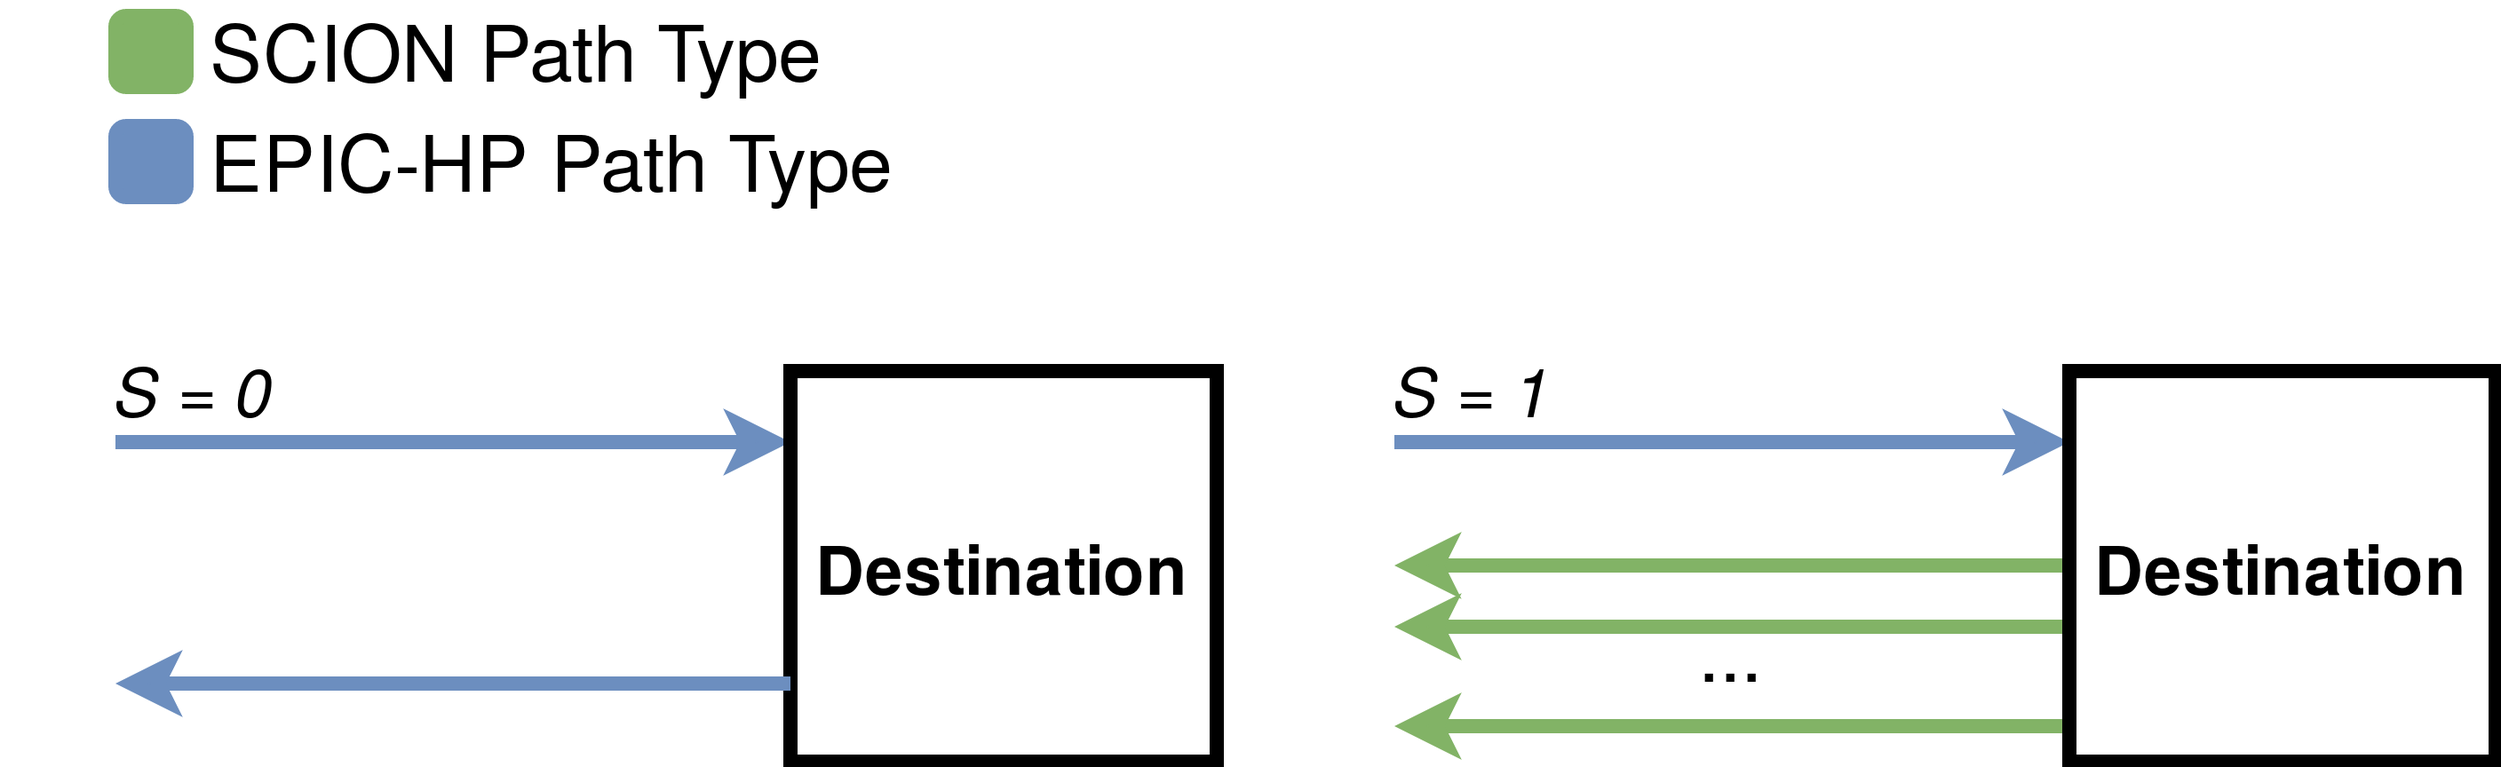
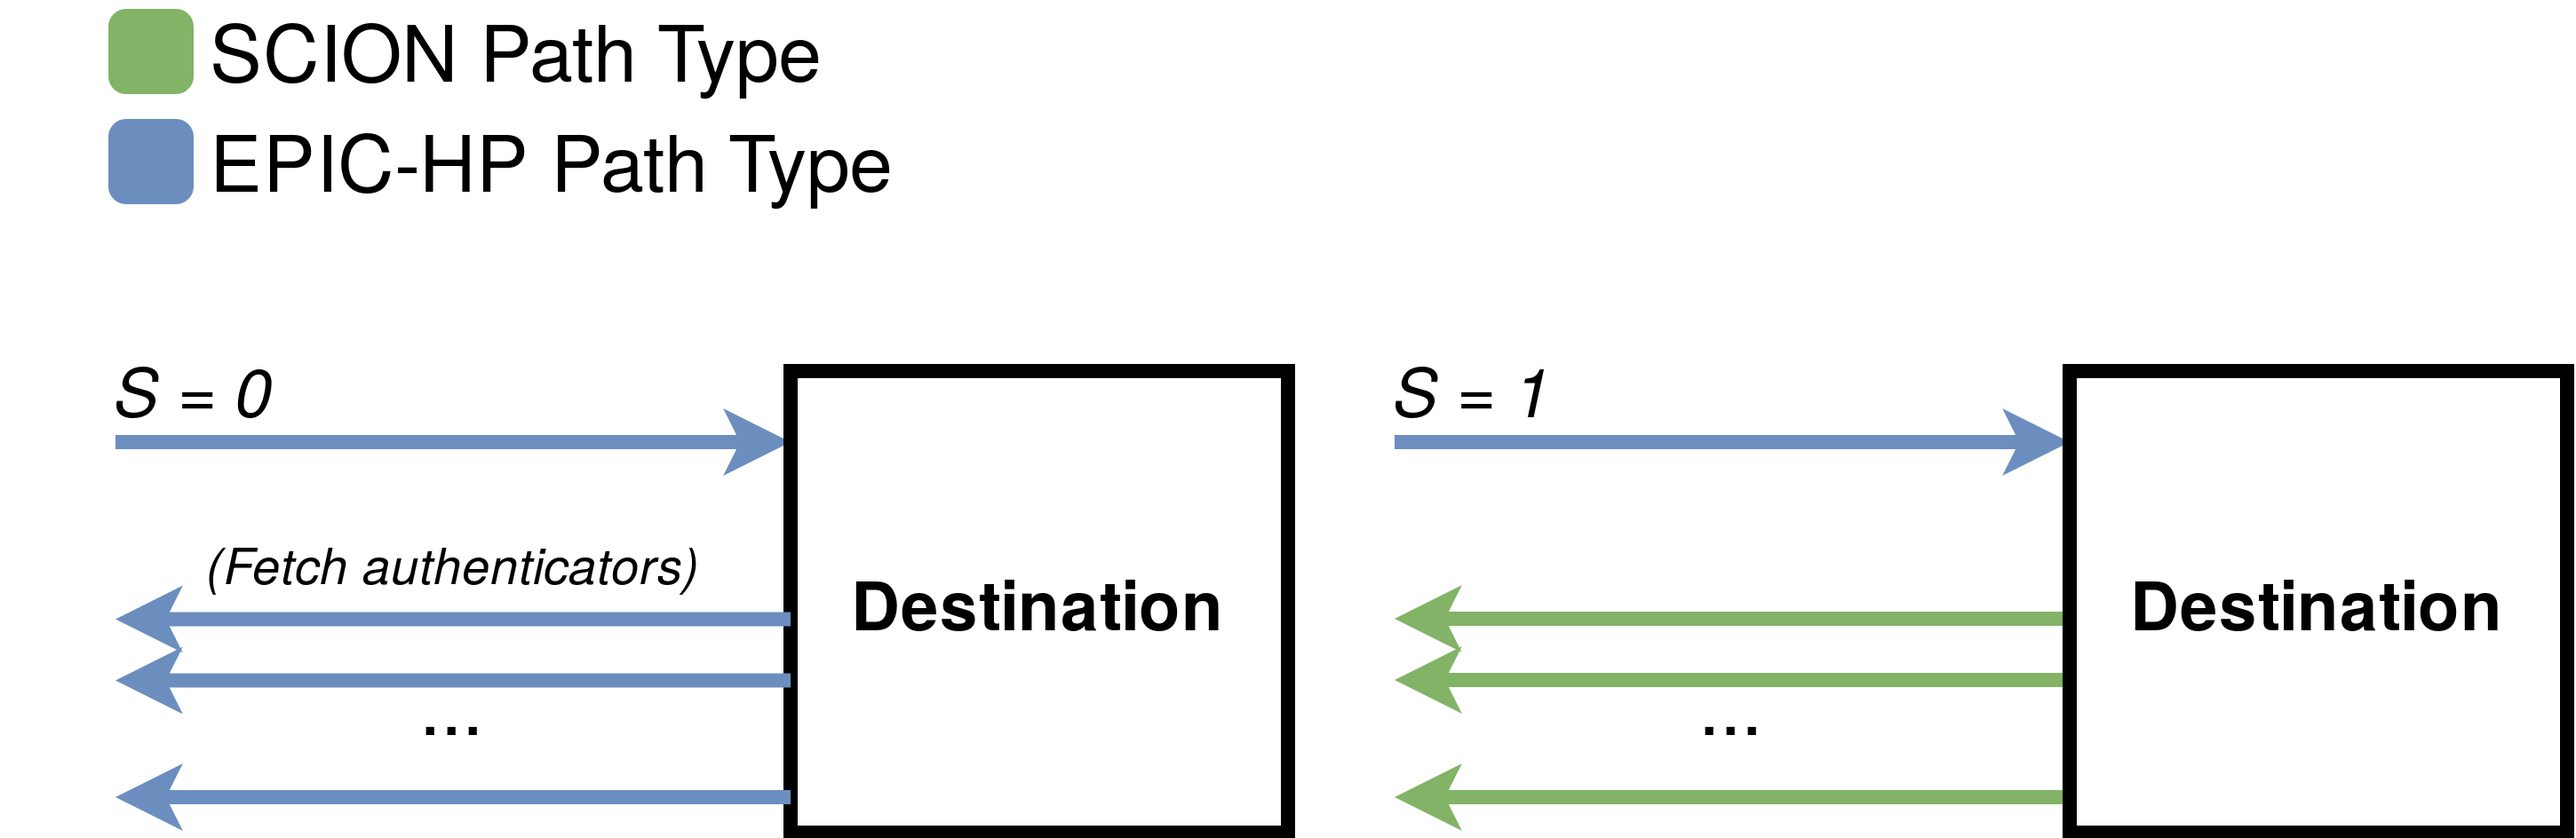
Address more feedback

diff --git a/doc/EPIC.md b/doc/EPIC.md
@@ -10,21 +10,20 @@ The ASes only advertise paths that serve their economic interests, and path auth
 In SCION, this is implemented by having the ASes create authenticators during beaconing, which end hosts then have to include in the MAC field of their packets. Those MAC fields prove to the ASes, that the packets are allowed to traverse them.
 The MAC fields are static, meaning that they are the same for every packet on that path.
 
-However, this implementation of path authorization is insufficient against more sophisticated adversaries that are able to derive MAC fields, for example by brute-forcing them or by observing them in the data plane packets. Because the MACs are static, once derived MACs for one packet can be reused by the adversary to send arbitrarily many other packets (until the authenticators expire).
+However, this implementation of path authorization is insufficient against adversaries that are able to observe the MAC fields in data plane packets of other hosts. Because the MACs are static, once observed MACs for some path can be reused by the adversary to send arbitrarily many other packets (until the authenticators expire).
 
 The EPIC (Every Packet Is Checked) protocol [[1]](#1) solves this problem by introducing per-packet MACs.
-Even if an adversary is able to brute-force the MACs for one packet, the MACs cannot be reused to send any other traffic.
-Observing MACs from packets in the data plane does also not help an attacker, as he still needs to derive new MACs for every packet he wants to send over an unauthorized path.
-This is especially important for hidden paths [[2]](#2). Hidden paths are paths which are not publicly announced, but only communicated to a group of authorized sources. If one of those sources sends traffic on the hidden path using SCION path type packets, an on-path adversary can observe the MACs and reuse them to send traffic on the hidden path himself. This allows the adversary to reach services that were meant to be hidden, or to launch DoS attacks directed towards them.
+Even if an adversary is able to discover the MACs for one packet, he cannot reuse the MACs to send any other traffic.
+The improved path authorization provided by EPIC is especially important for hidden paths [[2]](#2). Hidden paths are paths which are not publicly announced, but only communicated to a group of authorized sources. If one of those sources sends traffic on the hidden path using SCION path type packets, an on-path adversary can observe the MACs and reuse them to send traffic on the hidden path himself. This allows the adversary to reach services that were meant to be hidden, or to launch DoS attacks directed towards them.
 EPIC precludes such attacks, making hidden paths more secure.
 
 ## EPIC-HP Overview
-EPIC-HP (EPIC for Hidden Paths) provides the improved security properties of EPIC on the very last inter-AS link of a path. It is meant as a lightweight EPIC version and is specifically designed to better protect hidden paths.
+EPIC-HP (EPIC for Hidden Paths) provides the improved security properties of EPIC on the very last inter-AS link of a path. It is meant as a lightweight EPIC version and is specifically designed to better protect hidden paths. We will refer to ASes and hosts protected by a hidden path as "being behind a hidden link".
 
 ### Assumptions
 EPIC-HP makes the following assumptions necessary to provide a meaningful level of security:
 - The AS protected by the hidden path is the last AS.
-By "last AS" we mean that the beacon which defined the hidden path ends in the local interface of this AS. Or stated differently: the AS behind the hidden path does not forward the beacon defining the hidden path to further downstream/peering ASes. 
+By "last AS" we mean that the beacon which defined the hidden path ends in the local interface of this AS. Or stated differently: the AS reachable through the hidden path does not forward the beacon defining the hidden path to further downstream/peering ASes. 
 - On the interface-pairs (ingress/egress pair) that affect the hidden path, the last two ASes employ one of two different strategies in the data plane:
   1. Only allow EPIC-HP path type traffic. See use case "Highly Secure Hidden Paths" [here](#HighlySecureHiddenPaths). The path type filtering is further explained [here](#PathTypeFiltering).
   2. Prioritize EPIC-HP path type traffic. See use case "DOS-Secure Hidden Paths" [here](#DOSSecureHiddenPaths).
@@ -46,9 +45,9 @@ Of course the ASes can always decide to be more restrictive, for example AS 6 co
 ### SCION Path Type Responses
 EPIC-HP path type packets contain the full SCION path type header plus a timestamp and verification fields for the penultimate and last ASes on the path. 
 
-The included SCION path type header allows the destination behind a hidden path to directly respond with SCION path type packets. The destination only has to extract the SCION path type header from the EPIC-HP header and reverse the path. For this, there is a "SCION-Response (S)" flag in the EPIC-HP path type header, which can be set by the source. Setting this flag (S = 1) makes sense if the source AS is not behind a hidden path, or if it is behind a hidden path but also allows SCION path type traffic (but with lower priority than EPIC-HP).
+The included SCION path type header allows the destination behind a hidden link to directly respond with SCION path type packets. The destination only has to extract the SCION path type header from the EPIC-HP header and reverse the path. For this, there is a "SCION-Response (S)" flag in the EPIC-HP path type header, which can be set by the source. Setting this flag (S = 1) makes sense if the source AS is not behind a hidden link, or if it is behind a hidden link but also allows SCION path type traffic (but with lower priority than EPIC-HP).
 
-If the SCION-Response flag is not set (S = 0), this means that the source is itself behind a hidden path. The destination will therefore answer with a new EPIC-HP packet, provided it has the necessary authenticators for the hidden path towards the source.
+If the SCION-Response flag is not set (S = 0), this means that the source is itself behind a hidden link. The destination will therefore answer with a new EPIC-HP packet, provided it has the necessary authenticators for the hidden path towards the source.
 
 <p align="center">
   <img src="fig/EPIC/SCION-reponse-flag.png" width="600">
@@ -65,7 +64,7 @@ The last two ASes need to validate the fields accordingly.
 A more concise description can be found in the EPIC-HP path type specification.
 
 ## <a id="PathTypeFiltering"></a> Path Type Filtering
-Network operators should be able to clearly define which kind of traffic (SCION, EPIC-HP, EPIC-SAPV, and other protocols) they want to allow. 
+Network operators should be able to clearly define which kind of traffic (SCION, EPIC-HP, COLIBRI, and other protocols) they want to allow. 
 Therefore, for each AS and every interface pair, an AS can be configured with 1-bit flags to allow only certain types of traffic: 
 
 <p align=center>AllowedTraffic(If<sub>1</sub>, If<sub>2</sub>) = (flag<sub>SCION</sub>, flag<sub>EPIC-HP</sub>, flag<sub>COLIBRI</sub>, ...)</p>
@@ -86,13 +85,14 @@ There are two main applications for EPIC-HP:
 The last and penultimate ASes on the hidden path only allow EPIC-HP traffic on the interface pairs that affect the hidden path. 
 With such a setup it is not possible for unauthorized sources to reach the services in the last AS. Therefore, EPIC-HP effectively prevents adversaries from running attacks like denial of service, or attack preparations like scanning the services for vulnerabilities. 
 
-If some host H1 inside an AS with such a setup wants to communicate with a host inside another AS that is also behind a hidden path, both hosts need to have valid authenticators to send traffic over the corresponding hidden paths. The hosts can exclusively communicate using EPIC-HP, and H1 needs to set the SCION-Response flag to zero.
+If some host H1 inside an AS with such a setup wants to communicate with a host inside another AS that is also behind a hidden link, both hosts need to have valid authenticators to send traffic over the corresponding hidden paths. The hosts can exclusively communicate using EPIC-HP, and H1 needs to set the SCION-Response flag to zero.
 
-Note that hosts behind a hidden path can send SCION path type packets towards hosts in other ASes, but that those hosts can not send a response back if they do not have the necessary authenticators.
+Note that hosts behind a hidden link can send SCION path type packets towards hosts in other ASes, but that those hosts can not send a response back if they do not have the necessary authenticators.
 
 ### <a id="DOSSecureHiddenPaths"></a> DoS-Secure Hidden Paths
-The last and penultimate ASes on the hidden path allow EPIC-HP and other path types simultaneously, but prioritize traffic using the EPIC-HP path type over the SCION path type.
-This means that DOS attacks are not possible, because an adversary is limited to sending low-priority SCION path type packets. However, an adversary can still reach the services behind the hidden path.
+The last and penultimate ASes on the hidden path allow EPIC-HP and other path types simultaneously, but prioritize traffic using the EPIC-HP path type over the SCION path type. 
+This has the advantage that the link can still be used as a normal SCION path type access link. 
+DOS attacks are not possible in this case, because an adversary is limited to sending low-priority SCION path type packets. However, an adversary can still reach the services behind the hidden link.
 
 In this scenario, the hosts protected by the hidden path can set the SCION-Response flag to one, so the destination will be able to answer with (arbitrariliy many) SCION path type packets.
 

diff --git a/doc/protocols/scion-header.rst b/doc/protocols/scion-header.rst
@@ -527,15 +527,16 @@ path type response packet only contains strictly less information
 than the previously received EPIC-HP packet, as the response packet 
 does not include the PacketTimestamp, the PHVF, and the LHVF.
 
-If the sender is behind a hidden path itself, then it is likely that 
-its AS will not accept SCION path type packets, which means that the 
-destination can only respond using EPIC-HP traffic. Therefore the 
-sender can explicitly specify in the EPIC-HP packet whether it wants 
-the receiver to respond with SCION path type response packets, or 
-with EPIC-HP packets (assuming the receiver has the necessary 
-authenticators to send on the hidden path to the sender).
+If the sender is reachable through a hidden path itself, then it is 
+likely that its AS will not accept SCION path type packets, which 
+means that the destination can only respond using EPIC-HP traffic. 
+Therefore the sender can explicitly specify in the EPIC-HP packet 
+whether it wants the receiver to respond with SCION path type 
+response packets, or with EPIC-HP packets (assuming the receiver has 
+the necessary authenticators to send on the hidden path to the 
+sender).
 
-To protect the services behind the hidden path (only authorized 
+To protect the services behind the hidden link (only authorized 
 entities should be able to access the services, downgrade to the 
 SCION path type should be prevented, etc.), ASes need to be able to 
 configure the border routers such that only certain Path Types are 
@@ -658,7 +659,7 @@ append the remaining 10 bytes.
 **Data plane:**
 The source fetches the path, including all the 6-byte short hop 
 authenticators and the remaining 10 bytes of the authenticators, 
-from the path server. We will refer to the fully assembled 16-byte 
+from a (hidden) path server. We will refer to the fully assembled 16-byte 
 authenticators of the penultimate and last hop on the path as 
 :math:`{\sigma_{\text{PH}}}` for the penultimate hop (PH) and 
 :math:`{\sigma_{\text{LH}}}` for the last hop (LH), respectively. 
